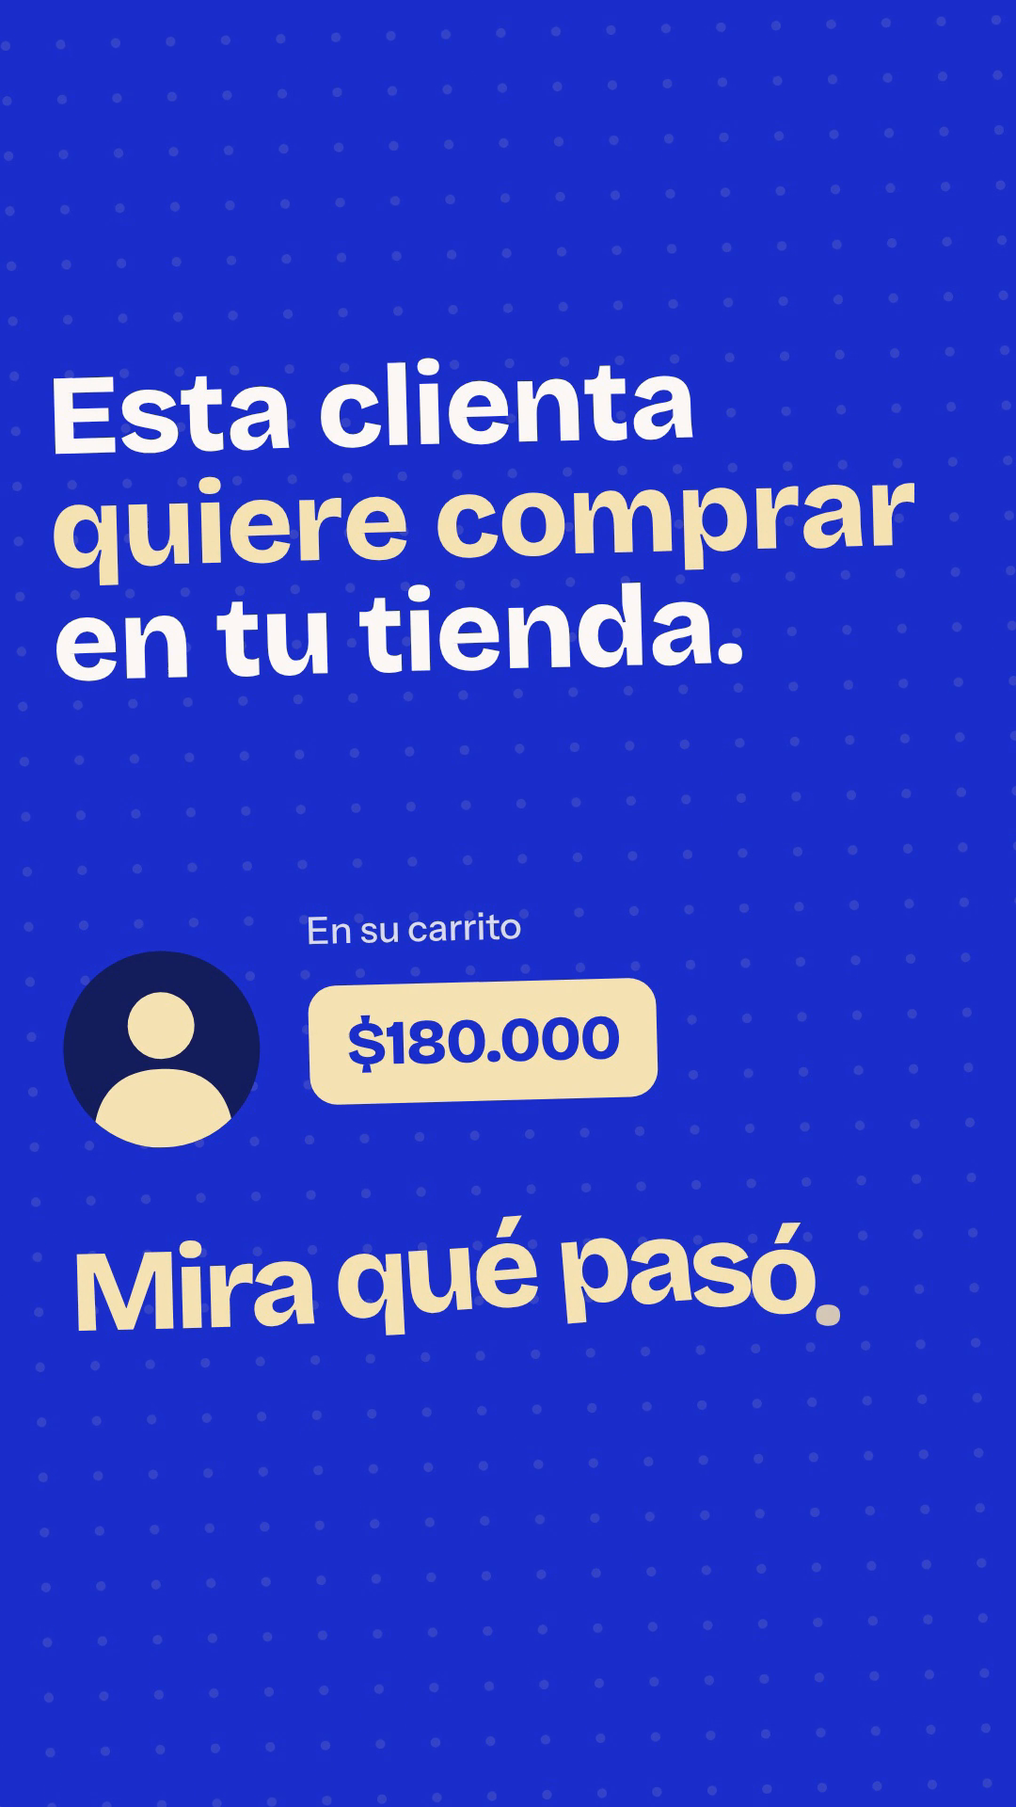
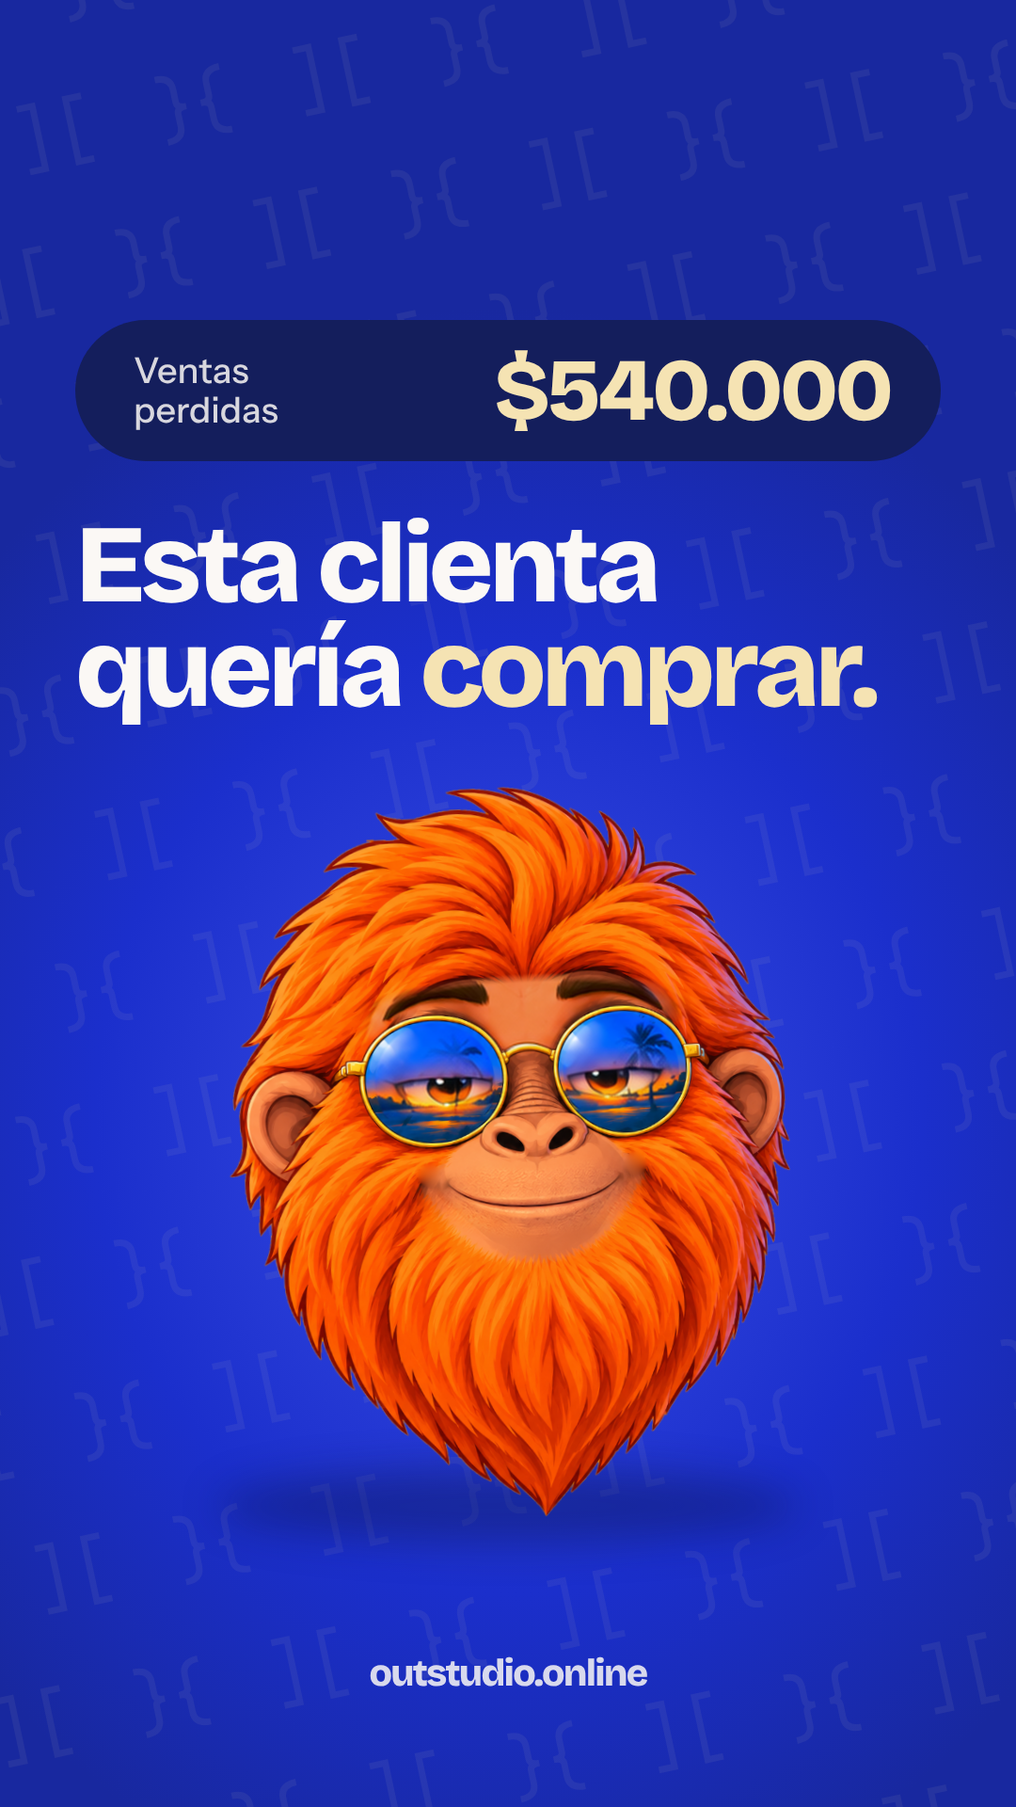
Portada y texto de la publicación del reel con Mango; README de Instagram con la skill reel-con-mango
Claude-Session: https://claude.ai/code/session_01BzT1ouPAUQAyY91NofEXdp

diff --git a/instagram/mango2d/portada.html b/instagram/mango2d/portada.html
@@ -1,0 +1,52 @@
+<!doctype html>
+<html lang="es"><head><meta charset="utf-8"><title>Portada del reel</title>
+<style>
+  @font-face { font-family: "B"; src: url("assets/bricolage.woff2") format("woff2"); font-weight: 200 800; }
+  @font-face { font-family: "I"; src: url("assets/instrument-500.woff2") format("woff2"); font-weight: 500; }
+  * { margin: 0; box-sizing: border-box; }
+  body { width: 1080px; height: 1920px; overflow: hidden; position: relative; background: #1b2fcc; font-family: "I", sans-serif; }
+  .d { font-family: "B", sans-serif; font-weight: 800; letter-spacing: -0.045em; line-height: 0.94; }
+  #fondo { position: absolute; inset: 0; background: radial-gradient(70% 45% at 50% 62%, #3a4ee6 0%, #1b2fcc 58%, #18289f 100%); }
+  canvas { position: absolute; left: 0; top: 0; }
+  /* La cuadrícula del perfil recorta el centro de 4:5 (de y 285 a y 1635): todo lo importante va ahí */
+  #hud { position: absolute; left: 80px; top: 340px; width: 920px; height: 150px; border-radius: 75px; background: #141e5c; display: flex; align-items: center; justify-content: space-between; padding: 0 54px 0 62px; }
+  #hud .lb { font-size: 38px; color: #fbf8f5; opacity: .85; line-height: 1.1; }
+  #hud .am { font-size: 94px; color: #f5e3b3; }
+  #titulo { position: absolute; left: 80px; right: 80px; top: 545px; font-size: 118px; white-space: nowrap; color: #fbf8f5; }
+  #titulo span { color: #f5e3b3; }
+  #mango { position: absolute; left: 0; top: 0; width: 1254px; height: 1254px; transform-origin: 627px 627px; }
+  #sombra { position: absolute; left: 230px; top: 1560px; width: 620px; height: 80px; border-radius: 50%; background: #0d1550; opacity: .4; filter: blur(22px); }
+  #marca { position: absolute; left: 0; right: 0; top: 1760px; text-align: center; font-size: 40px; color: #fbf8f5; opacity: .85; }
+</style></head>
+<body>
+<div id="fondo"></div>
+<canvas id="trama" width="1080" height="1920"></canvas>
+<div id="hud"><div class="lb">Ventas<br>perdidas</div><div class="am d">$540.000</div></div>
+<div id="titulo" class="d">Esta clienta<br>quería <span>comprar.</span></div>
+<div id="sombra"></div>
+<div id="mango"></div>
+<div id="marca" class="d">outstudio.online</div>
+<script src="rig.js"></script>
+<script>
+  // trama de corchetes y llaves muy suave, igual que en las otras piezas de Out
+  const cx = document.getElementById("trama").getContext("2d");
+  cx.strokeStyle = "#f5e3b3"; cx.globalAlpha = 0.065; cx.lineWidth = 7; cx.lineJoin = "miter";
+  cx.translate(540, 960); cx.rotate(-0.21);
+  for (let r = -16; r < 16; r++) for (let c = -10; c < 10; c++) {
+    const x = c * 150 + (r % 2 ? 75 : 0), y = r * 150, curva = (r + c) % 2;
+    for (const lado of [-1, 1]) {
+      cx.beginPath();
+      const px = x + lado * 18, d = lado * 17;
+      if (curva) { cx.moveTo(px + d, y - 34); cx.quadraticCurveTo(px, y - 34, px, y - 20); cx.lineTo(px, y - 6); cx.quadraticCurveTo(px, y, px - d * 0.6, y); cx.quadraticCurveTo(px, y, px, y + 6); cx.lineTo(px, y + 20); cx.quadraticCurveTo(px, y + 34, px + d, y + 34); }
+      else { cx.moveTo(px + d, y - 34); cx.lineTo(px, y - 34); cx.lineTo(px, y + 34); cx.lineTo(px + d, y + 34); }
+      cx.stroke();
+    }
+  }
+  // Mango: ojos entreabiertos, boca cerrada y la cara girada un poco hacia el título
+  const NOMBRES_OJOS = ["ojos-abiertos","entreabiertos","mirada-izq","mirada-der","mirada-arriba","parpadeo"];
+  const IDX = {}; ["m", "pb", "a", "e", "i", "o", "u", "dt", "fv", "sz"].forEach((n) => (IDX[n] = { x: 450, y: 600 }));
+  const m = MangoRig.crear(document.getElementById("mango"), { webgl: true, bocas: { carpeta: "bocas", indice: IDX }, ojos: { carpeta: "ojos", x: 330, y: 300, ancho: 640, alto: 320, nombres: NOMBRES_OJOS } });
+  const ESC = 0.64;
+  document.getElementById("mango").style.transform = `translate(${540 - 627}px, ${1225 - 627}px) rotate(-3deg) scale(${ESC})`;
+  window.listo = (async () => { await m.listo; await m.cargado(); m.bocaImg("m"); m.ojos("entreabiertos"); m.girar(0.32, 0.12); })();
+</script></body></html>

diff --git a/instagram/lote-4/textos.md b/instagram/lote-4/textos.md
@@ -1,40 +1,38 @@
 # Instagram, lote 4
 
-Un reel para la publicación 3 del perfil: **La venta perdida**. Está hecho con
-HyperFrames (su proyecto vive en `instagram/hyperframes/reel-venta-perdida/`).
+**La venta perdida**, publicación 3 del perfil. La pieza principal es el reel con Mango
+ilustrado. La misma idea existe también como imagen y como reel sin Mango (ver más abajo).
+
+El reel está hecho con la skill `reel-con-mango` (`.claude/skills/reel-con-mango/`): Mango
+animado en 2D a 2s, lipsync por fonemas y voces de ElevenLabs.
 
 | Archivo | Qué es |
 |---|---|
-| `venta-perdida-imagen.png` | La misma idea en una sola imagen, 1080 × 1350. Es la que se sube como publicación 3 |
-| `reel-venta-perdida-mango.mp4` | Versión con Mango como narrador: habla con su voz de personaje, con globos de texto y música. Es la alternativa más llamativa |
-| `reel-venta-perdida-con-musica.mp4` | El reel con música original, 1080 × 1920, 28,6 segundos, sin voz. Alternativa si prefieres video |
-| `reel-venta-perdida.mp4` | El mismo reel sin audio, por si prefieres ponerle un sonido en trending de Instagram |
-| `voz-plan.json` | Los cortes de una grabación de voz que se probó y se descartó (ver «Voz en off») |
-| `reel-venta-perdida-portada.png` | La portada |
+| `reel-venta-perdida-mango-ilustrado.mp4` | **El reel.** 1080 × 1920, 28,6 s, 24 cuadros por segundo, con voces, música y efectos |
+| `reel-venta-perdida-portada.png` | La portada, 1080 × 1920. Lo importante queda en el centro 4:5 que recorta la cuadrícula del perfil |
+| `venta-perdida-imagen.png` | La misma idea en una sola imagen, 1080 × 1350 |
+| `reel-venta-perdida-con-musica.mp4`, `reel-venta-perdida.mp4` | Versiones sin Mango: con música original y sin audio |
+| `reel-venta-perdida-voces.mp4` | Versión sin Mango con las dos voces |
+| `reel-venta-perdida-mango.mp4` | Primer intento de Mango (la imagen deformada). Descartado |
+| `voz-plan.json` | Cortes de una grabación de voz de Oscar que se probó y se descartó |
 
 ## Qué muestra
 
-Seguimos a una clienta que quiere comprar en una tienda online. La tienda le
-falla de tres formas y un contador de «ventas perdidas» sube con cada fallo.
-Cada fallo termina con la misma frase, «Se fue.», que es lo que da ritmo.
+Seguimos a una clienta que quiere comprar en una tienda online. La tienda le falla de
+tres formas y un contador de «ventas perdidas» sube con cada fallo. Cada fallo termina
+con la misma frase, «Se fue.», que es lo que da ritmo.
 
 1. Tarda en cargar (el reloj llega a 7,4 segundos).
 2. No se ve bien en el celular (hace zoom y no lee nada).
 3. Pagar es un enredo (nueve campos antes de poder pagar).
 
-Cierre: tres ventas, tres errores, todos con arreglo, y la invitación a hablar.
+Cierre: tres ventas, tres errores, todos con arreglo, y Mango dice «Escríbenos.».
 
-## Cómo publicarlo
-
-- **Audio:** sube `reel-venta-perdida-con-musica.mp4`. La música es original (no
-  tiene derechos de autor) y los golpes caen sobre los de la pantalla. Si prefieres
-  un sonido que esté de moda en Reels, sube `reel-venta-perdida.mp4` (sin audio) y
-  elígelo en Instagram: los sonidos en tendencia suelen dar más alcance.
-- **Portada:** sube `reel-venta-perdida-portada.png`. En el perfil, la cuadrícula
-  recorta arriba y abajo, y el título queda a la vista.
-- **Cuándo:** martes o jueves, al mediodía o a las 7 p. m.
-- **Primer comentario:** fija uno tuyo con la pregunta del final del texto, para
-  que la gente conteste debajo.
+**Voces.** El narrador dice todo menos el cierre: «Esta clienta quiere comprar en tu
+tienda. Mira qué pasó. Tarda en cargar siete segundos. Se fue. No se ve bien en el celular.
+No lee nada. Se fue. Pagar es un enredo. Tiene nueve campos. Se fue. Tres ventas perdidas.
+Tres errores con arreglo. Y casi nunca te enteras. ¿Tu tienda tiene alguno?». Mango solo
+dice «Escríbenos.» y el resto del tiempo escucha con la boca cerrada.
 
 ## Texto de la publicación
 
@@ -50,73 +48,36 @@ Cierre: tres ventas, tres errores, todos con arreglo, y la invitación a hablar.
 >
 > ¿Cuál de las tres le pasa a tu tienda? Cuéntanos en los comentarios o escríbenos por DM y la revisamos contigo. También puedes cotizar en outstudio.online (link en la bio).
 >
-> Guárdalo para revisar tu tienda con calma.
+> Míralo con sonido y guárdalo para revisar tu tienda con calma.
 
 **Hashtags:** #TiendaOnline #Shopify #Ecommerce #EmprendimientoColombia #DiseñoWeb #DiseñoUXUI #VentasOnline
 
-**Texto alternativo:** Video de Out Studio que sigue a una clienta en una tienda online que falla de tres formas: carga lento, no se ve bien en el celular y pagar es un enredo. Un contador de ventas perdidas sube en cada fallo.
+**Texto alternativo:** Video de Out Studio con Mango, la mascota, y una clienta en una tienda online que falla de tres formas: carga lento, no se ve bien en el celular y pagar es un enredo. Un contador de ventas perdidas sube en cada fallo hasta 540.000 pesos. Al final Mango dice «Escríbenos».
 
-## Reel con Mango narrador
+**Primer comentario (fíjalo tú):** «¿Cuál de las tres le pasa a tu tienda: carga lento, no se ve bien en el celular o pagar es un enredo?»
 
-Mango (la cabeza, de `design-src/mono/mono-avatar.png`) asoma abajo a la derecha y
-cuenta la historia: la boca se abre y se cierra al ritmo de la voz, cabecea, mueve la
-cabeza de lado a lado en cada «Se fue.» y en el cierre crece y pasa al centro. Sus
-frases salen en globos de texto. La clienta ya no habla: narra Mango.
+## Cómo publicarlo
 
-**Cómo funciona.** No es un 3D con esqueleto. La imagen de Mango se deforma por tiras
-en la zona de la mandíbula, entre la nariz y la barba, para cerrar o abrir la boca
-(el original es la boca abierta). Cada cuadro del video lee un valor de 0 a 1 de la
-curva de volumen de la voz (`ENV` en el HTML) y calcula cuánto abrir. Todo depende
-solo del tiempo, así que renderiza igual siempre.
+- **Archivo:** sube `reel-venta-perdida-mango-ilustrado.mp4`. La música es original, sin derechos de autor.
+- **Portada:** en Reels elige «Subir desde el carrete» y usa `reel-venta-perdida-portada.png`. En el perfil, la cuadrícula recorta arriba y abajo, y el título y Mango quedan a la vista.
+- **Cuándo:** martes o jueves, al mediodía o a las 7 p. m.
+- **Después:** responde cada comentario y DM el mismo día y comparte el reel en tus historias y en tu estado de WhatsApp.
 
-**La voz.** Es la grabación de Oscar con el tono subido unos tres semitonos y el timbre
-movido (`--tono mango` en `scripts/poner-voz.py`), para que suene a personaje. Se puede
-cambiar por otra voz (de IA o una locución) sin tocar el video:
-1. Saca la curva con `python3 instagram/scripts/envolvente-voz.py voz.wav > env.json`.
-2. Pega la lista en la constante `ENV` de `hyperframes/reel-venta-perdida-mango/index.html`.
-3. Renderiza: `npx hyperframes@0.8.150 render -q high -o reel.mp4` desde esa carpeta.
-4. Mezcla la voz con la música (`scripts/musica-reel.py`) y comprime con ffmpeg.
+## Antes de publicar
 
-El proyecto está en `instagram/hyperframes/reel-venta-perdida-mango/`.
+- Las voces vienen de ElevenLabs: para uso comercial (un reel de Out lo es), el plan de la cuenta tiene que ser de pago. Confírmalo.
+- El texto promete una revisión por DM de la tienda de quien comente. Confirma que quieres ofrecerla; si no, cambia esa frase por «Escríbenos por DM» solamente.
+- Los montos ($180.000 y $540.000) son un ejemplo. El texto lo aclara; no lo quites.
 
-## Voz en off (probada y descartada)
+## Cómo se regenera
 
-Se probó con la voz de Oscar, grabada en una toma, en tres tratamientos (natural,
-cálida y grave), y no convenció, así que el reel se publica sin voz y con música.
-El video quedó ajustado al ritmo de esa lectura (por eso el cierre es más pausado
-y dura 28,6 s). La herramienta y el guion se dejan por si se quiere retomar.
+- **Portada:** `cd instagram/mango2d && NODE_PATH=$(npm root -g) node portada.cjs ../lote-4/reel-venta-perdida-portada.png` (la hace con el mismo Mango del reel: ojos entreabiertos, boca cerrada).
+- **Reel:** ver la skill `reel-con-mango` (flujo completo y comandos). Los datos de este reel: voces en `instagram/voces/`, plan de cortes en `instagram/dialogo/plan.json`, claves de boca y ojos en `instagram/dialogo/hoja-venta-perdida.json`, escenas en `instagram/mango2d/reel.html`.
+- **Imagen:** `node instagram/scripts/lote-4.cjs`.
 
-| Desde | Frase | Qué pasa en pantalla |
-|---|---|---|
-| 0,4 s | Esta clienta quiere comprar en tu tienda. Mira qué pasó. | Gancho, el carrito de $180.000 |
-| 3,95 s | Tarda en cargar siete segundos. | El reloj sube hasta 7,4 s |
-| 6,95 s | Se fue. | Cae «Se fue.» y sube el contador |
-| 8,5 s | No se ve bien en el celular. No lee nada. | Zoom con los dedos |
-| 11,95 s | Se fue. | Cae «Se fue.» |
-| 13,4 s | Pagar es un enredo. Tiene nueve campos. | Los campos se apilan |
-| 16,7 s | Se fue. | Cae «Se fue.» |
-| 18,0 s | Tres ventas perdidas. Tres errores con arreglo. | La suma de $540.000 |
-| 21,35 s | Y casi… nunca te enteras. | El texto grande sobre la suma |
-| 24,0 s | ¿Tu tienda tiene alguno? | Entra el cierre |
-| 27,2 s | Escríbenos. | Mango y el botón |
+## Publicación de imagen (alternativa)
 
-### Cómo se pone
-
-La toma salió de corrido, sin pausas claras entre frases, así que los cortes están
-a mano en `voz-plan.json` (segundo de inicio y fin dentro de la grabación, y el
-segundo del video donde entra). Para volver a mezclar:
-`python3 instagram/scripts/poner-voz.py toma.m4a --plan instagram/lote-4/voz-plan.json`
-
-Si grabas otra toma con una pausa de un segundo entre frases, el script las
-separa solo, sin plan: `python3 instagram/scripts/poner-voz.py toma.m4a`.
-
-## Publicación de imagen
-
-Imagen: `venta-perdida-imagen.png` (1080 × 1350). Se regenera con
-`node instagram/scripts/lote-4.cjs`. Muestra el contador de ventas perdidas, a la
-clienta que quiere comprar, las tres cosas que fallaron y «Se fue.» en cada una.
-
-**Texto:**
+Imagen: `venta-perdida-imagen.png` (1080 × 1350). Muestra el contador de ventas perdidas, a la clienta que quiere comprar, las tres cosas que fallaron y «Se fue.» en cada una.
 
 > Esta clienta quiere comprar en tu tienda. Y se va.
 >
@@ -132,52 +93,16 @@ clienta que quiere comprar, las tres cosas que fallaron y «Se fue.» en cada un
 >
 > Guárdalo para revisar tu tienda con calma.
 
-**Hashtags:** #TiendaOnline #Shopify #Ecommerce #EmprendimientoColombia #DiseñoWeb #DiseñoUXUI #VentasOnline
-
 **Texto alternativo:** Imagen de Out Studio con un contador de ventas perdidas de 540.000 pesos. Una clienta quería comprar y se fue por tres fallos de la tienda: tarda en cargar 7,4 segundos, no se ve bien en el celular y pagar tiene 9 campos. Las tres tienen arreglo.
 
-## Antes de publicar
+## Versiones anteriores del reel (por si se retoman)
 
-- El texto promete una revisión por DM de la tienda de quien comente. Confirma
-  que quieres ofrecerla; si no, cambia esa frase por «Escríbenos por DM» solamente.
-- Responde cada comentario y DM el mismo día y comparte el reel en tus historias
-  y en tu estado de WhatsApp.
-
-## Para regenerarlo
-
-Desde `instagram/hyperframes/reel-venta-perdida/`:
-`npx hyperframes@0.8.150 render -q high -o reel.mp4` (pide Node 22 y FFmpeg).
-La portada es el cuadro del segundo 2,85 del video:
-`ffmpeg -ss 2.85 -i reel.mp4 -frames:v 1 portada.png`.
+- **Sin Mango, con música** (`reel-venta-perdida-con-musica.mp4`): el mismo reel sin voz. Se regenera con
+  `python3 instagram/scripts/musica-reel.py --video instagram/lote-4/reel-venta-perdida.mp4` (HyperFrames: `instagram/hyperframes/reel-venta-perdida/`).
+- **Sin Mango, con dos voces** (`reel-venta-perdida-voces.mp4`): narrador y Mango solo en voz, sin animación.
+- **Mango con la imagen deformada** (`reel-venta-perdida-mango.mp4`, proyecto `instagram/hyperframes/reel-venta-perdida-mango/`): la boca se deformaba por tiras; no funcionó y se reemplazó por el Mango ilustrado.
+- **Voz de Oscar:** se probó en tres tratamientos y no convenció (`voz-plan.json`, `scripts/poner-voz.py`).
 
 ## Música
 
-Está hecha con `instagram/scripts/musica-reel.py` (numpy y scipy, todo sintetizado, sin
-muestras ni derechos de autor). Va a 114 BPM, con la rejilla desplazada para que los
-cambios de escena y las tres «Se fue.» caigan sobre el pulso. Va creciendo con las
-escenas (intro, reloj, zoom, formulario), se corta justo antes de cada «Se fue.» para
-que el golpe pegue más, hace un respiro antes de «nunca te enteras» y pasa de acordes
-menores y tensos a mayores y esperanzados cuando llega la suma. Cierra con silencio y
-un golpe final con campanitas.
-
-Para regenerarla y mezclarla con el video:
-`python3 instagram/scripts/musica-reel.py --video instagram/lote-4/reel-venta-perdida.mp4`
-Se puede ajustar el volumen con `--volumen 0.8` (requiere numpy, scipy y ffmpeg).
-
-## Reel con dos voces (narrador y Mango)
-
-Archivo: `reel-venta-perdida-voces.mp4` (28,6 s, 1080 × 1920). Es el mismo reel de «La venta perdida», sin personajes animados, con dos voces de ElevenLabs y la música original por debajo (baja sola cuando hablan).
-
-- **Narrador:** cuenta lo que pasa. «Esta clienta quiere comprar en tu tienda. Tarda en cargar siete segundos. No se ve bien en el celular. No lee nada. Pagar es un enredo. Tiene nueve campos. Tres ventas perdidas. ¿Tu tienda tiene alguno?»
-- **Mango (voz):** comenta. «Mira qué pasó. Se fue. Se fue. Se fue. Tres errores con arreglo. Y casi nunca te enteras. Escríbenos.»
-- Las voces están en `instagram/voces/`; `instagram/dialogo/plan.json` dice en qué segundo cae cada frase y `instagram/scripts/dialogo.py` las acomoda. Si cambias una voz, vuelve a correr el script y a mezclar.
-- Antes de publicar: ElevenLabs pide plan de pago para uso comercial.
-
-## Reel con Mango ilustrado (versión final de voces)
-
-Archivo: `reel-venta-perdida-mango-ilustrado.mp4` (28,6 s, 24 cuadros por segundo). Mango animado en 2s, con la boca de tus dibujos y lipsync por fonemas.
-
-- **Narrador:** dice todo menos el cierre. «Esta clienta quiere comprar en tu tienda. Mira qué pasó. Tarda en cargar siete segundos. Se fue. No se ve bien en el celular. No lee nada. Se fue. Pagar es un enredo. Tiene nueve campos. Se fue. Tres ventas perdidas. Tres errores con arreglo. Y casi nunca te enteras. ¿Tu tienda tiene alguno?»
-- **Mango (voz):** solo «Escríbenos.», al final. El resto del tiempo escucha con la boca cerrada.
-- Voces en `instagram/voces/` (`narrador.mp3`, `narrador2.mp3`, `mango.mp3`); plan de cortes en `instagram/dialogo/plan.json`; hoja de exposición en `instagram/dialogo/hoja-venta-perdida.json`.
-- Antes de publicar: ElevenLabs pide plan de pago para uso comercial.
+Hecha con `instagram/scripts/musica-reel.py` (numpy y scipy, todo sintetizado, sin muestras ni derechos de autor). Va a 114 BPM, con la rejilla desplazada para que los cambios de escena y las tres «Se fue.» caigan sobre el pulso. Cambia de acordes menores y tensos a mayores y esperanzados cuando llega la suma, y cierra con un golpe final con campanitas. Los efectos de sonido salen de `instagram/scripts/sfx-reel.py`.

diff --git a/instagram/README.md b/instagram/README.md
@@ -10,7 +10,7 @@ cada publicación y los scripts que las generan.
 | Lote 1 | Carrusel "3 errores que frenan tu tienda online", reel de Diario Deportes (video y portada), carrusel de Out Emprende | `lote-1/` |
 | Lote 2 | Carrusel "¿Shopify, WordPress o landing page?", carrusel "Antes de pedir tu página web, ten esto listo", publicación e historia de Mango | `lote-2/` |
 | Lote 3 | Carrusel "¿De qué depende el precio de una página web?", reel "3 señales de que tu página necesita un rediseño" (video y portada), carrusel "Así trabajamos" | `lote-3/` |
-| Lote 4 | «La venta perdida», publicación 3: imagen, o reel con música (video y portada) | `lote-4/` |
+| Lote 4 | «La venta perdida», publicación 3: reel con Mango ilustrado (video, portada y texto), imagen y versiones sin Mango | `lote-4/` |
 | Perfil | Foto de perfil, portadas de destacados, historias de cada destacado, biografía y datos del perfil | `perfil/` |
 | Videos personales | Cinco guiones para grabar con tu cara y tu voz (quién eres, revisión de una página, precio, caso Diario Deportes, un día de trabajo) | `videos-personales/` |
 
@@ -27,10 +27,13 @@ carruseles y publicaciones, 1080 × 1920 para reels e historias.
 - `scripts/lote-1.cjs` a `scripts/lote-3.cjs`: un script por lote.
 - `hyperframes/`: los reels animados, hechos con [HyperFrames](https://github.com/heygen-com/hyperframes) (HTML + GSAP). Cada carpeta es un proyecto: `index.html` es el video. Para volver a renderizarlo, desde su carpeta: `npx hyperframes@0.8.150 render -q high -o reel.mp4` (pide Node 22 y FFmpeg). Toman como referencia la intro del sitio (`public/intro/index.html`): cámara con zoom y giro, anillos que se expanden en los impactos, barrido circular de color, líneas de velocidad y los símbolos [ ] { } < >. La sacudida de pantalla se usa solo en uno o dos golpes grandes por reel, no en cada entrada.
   - `reel-senales/`: reel del lote 3.
-  - `reel-venta-perdida-mango/`: el mismo reel con Mango como narrador, con la boca animada por la voz.
+  - `reel-venta-perdida-mango/`: primer intento de Mango como narrador, con la boca deformada por tiras. Descartado.
   - `reel-venta-perdida/`: reel del lote 4. Una clienta, tres fallos de la tienda y un contador de ventas perdidas que sube.
   - `reel-diario-deportes/`: reel del lote 1, con capturas reales del sitio antes y después.
   - `video-ejemplo/`: ejemplo del formato "Reviso tu página" de los videos personales (pantalla, marcas, subtítulos palabra por palabra y un círculo "Tu cámara" donde va la cara). El render está en `videos-personales/ejemplo-reviso-tu-pagina.mp4`.
+
+- `mango2d/`: Mango ilustrado animado en 2D (cutout, a 2s), con el rig, las plantillas de reel y de portada, y el renderizador. Es el método de los reels con Mango y está descrito en la skill `reel-con-mango` (`.claude/skills/reel-con-mango/`): voces, lipsync por fonemas, hoja de exposición, inbetweens, cámara por capas y revisión. Ejemplo completo: `lote-4/`.
+- `voces/`, `dialogo/`: audios de ElevenLabs y el plan que los acomoda en cada reel (`dialogo/plan.json`), con las claves de boca y ojos (`dialogo/hoja-venta-perdida.json`).
 
 Para regenerar un lote: `node instagram/scripts/lote-2.cjs`.
 
